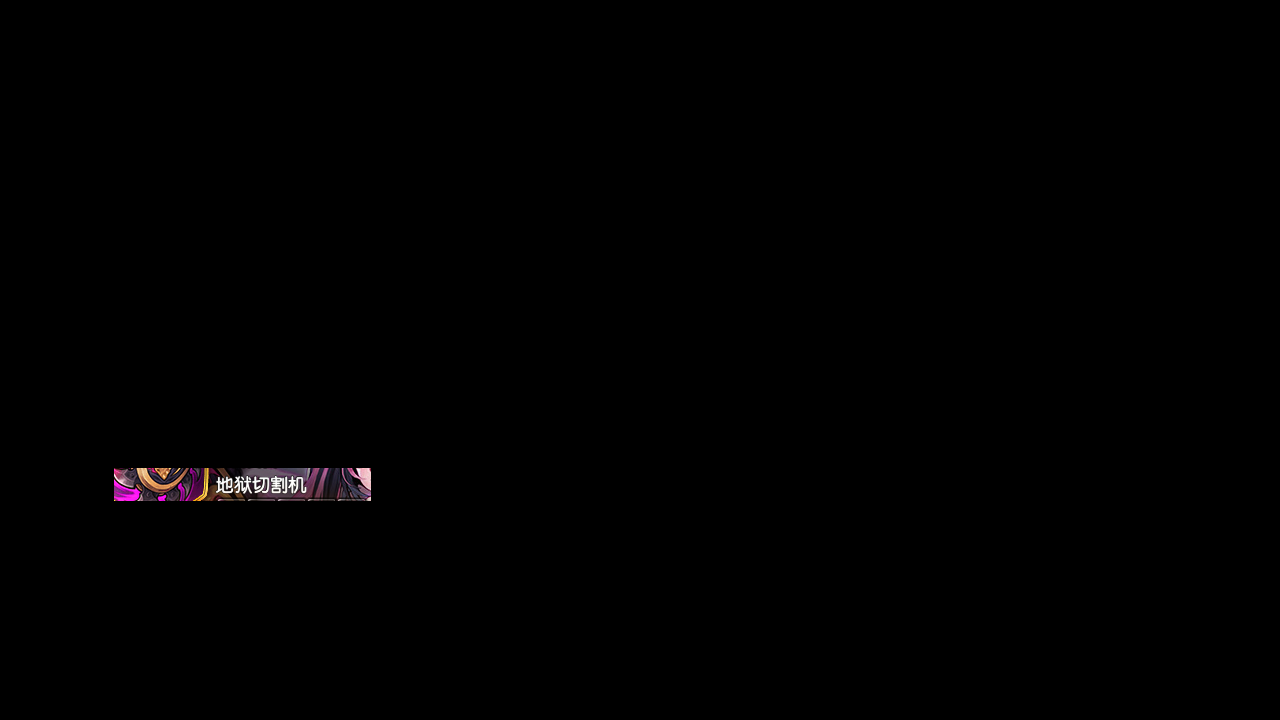
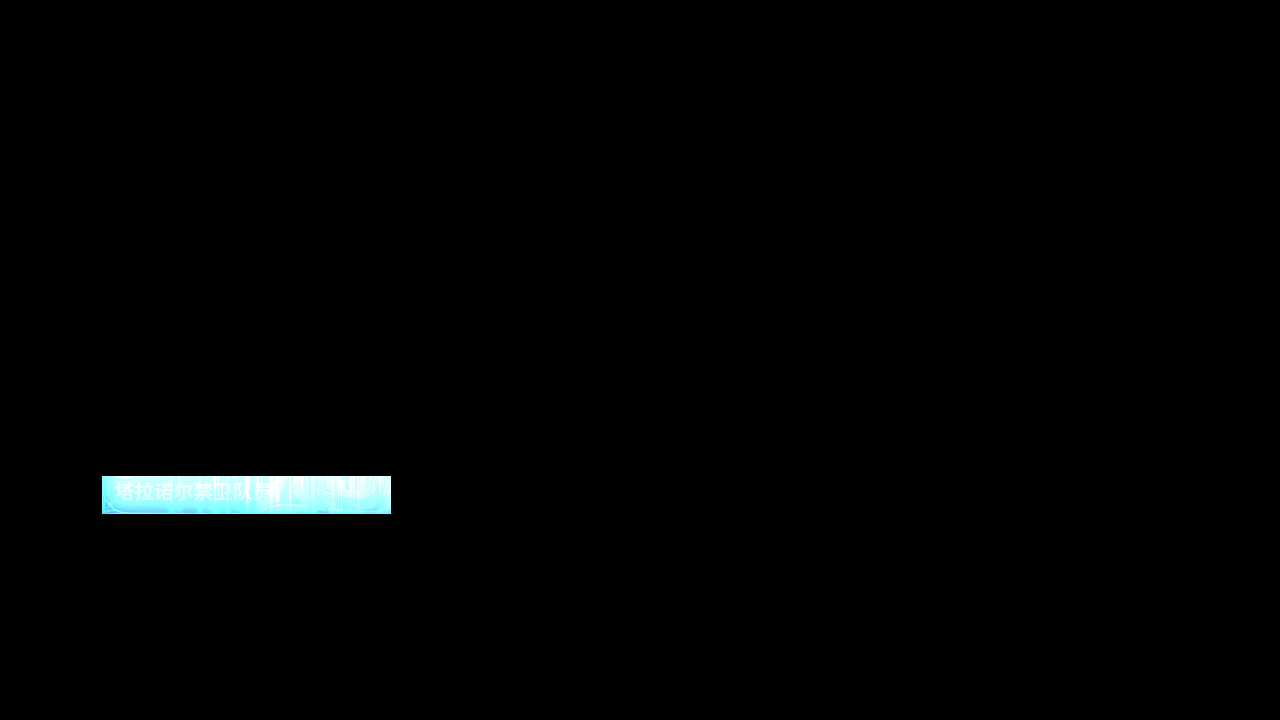
Chore: expand gacha_3 area

Changed region(s): [[0.0625, 0.6417, 0.3125, 0.7333]]

diff --git a/tasks/gacha/assets/assets_gacha.py b/tasks/gacha/assets/assets_gacha.py
@@ -47,10 +47,10 @@ GACHA_10_3 = ButtonWrapper(
     name='GACHA_10_3',
     share=Button(
         file='./assets/share/gacha/GACHA_10_3.png',
-        area=(114, 468, 371, 501),
-        search=(94, 448, 391, 521),
-        color=(105, 72, 87),
-        button=(114, 468, 371, 501),
+        area=(102, 476, 391, 514),
+        search=(82, 456, 411, 534),
+        color=(187, 253, 255),
+        button=(102, 476, 391, 514),
     ),
 )
 GACHA_10_4 = ButtonWrapper(
